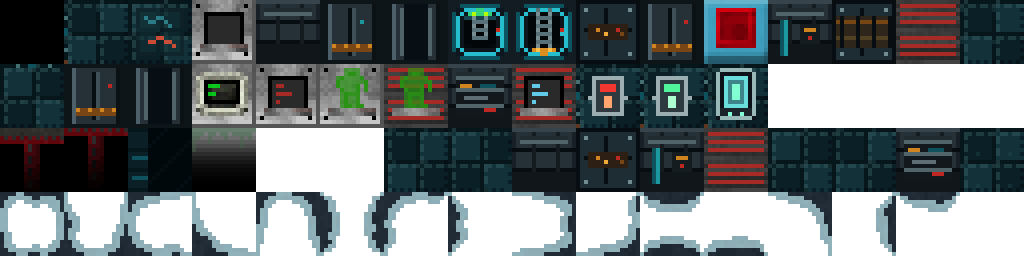
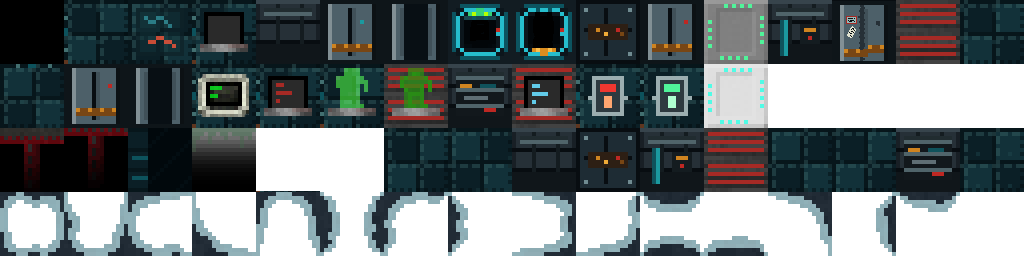
Refine security arena progression and item visuals

diff --git a/core/src/main/java/com/wafitz/pixelspacebase/levels/SecurityBossLevel.java b/core/src/main/java/com/wafitz/pixelspacebase/levels/SecurityBossLevel.java
@@ -59,7 +59,7 @@ import java.util.ArrayList;
 public class SecurityBossLevel extends Level {
 
     private static final int ALL_Y_MAZE_INTERLUDES_FOUND = 0x7;
-    private static final int TENGU_DAMAGE_CAP = 20;
+    private static final int BOSS_DAMAGE_CAP = 20;
     private static final int MIN_RANGED_USES = 3;
 
     {
@@ -78,13 +78,14 @@ public class SecurityBossLevel extends Level {
     private State state;
     private MaskedPrisoner maskedPrisoner;
     private int yMazeFound;
+    private boolean yBalanceApplied;
 
     //keep track of that need to be removed as the level is changed. We dump 'em back into the level at the end.
     private ArrayList<Item> storedItems = new ArrayList<>();
 
     @Override
     public String tilesTex() {
-        return Assets.TILES_SECURITY_BLOCK;
+        return state == State.FIGHT_ARENA ? Assets.TILES_SECURITY_ARENA : Assets.TILES_SECURITY_BLOCK;
     }
 
     @Override
@@ -95,6 +96,7 @@ public class SecurityBossLevel extends Level {
     private static final String STATE = "state";
     private static final String MASKED_PRISONER = "masked_prisoner";
     private static final String Y_MAZE_FOUND = "yMazeFound";
+    private static final String Y_BALANCE_APPLIED = "yBalanceApplied";
     private static final String STORED_ITEMS = "storeditems";
 
     @Override
@@ -103,6 +105,7 @@ public class SecurityBossLevel extends Level {
         bundle.put(STATE, state);
         bundle.put(MASKED_PRISONER, maskedPrisoner);
         bundle.put(Y_MAZE_FOUND, yMazeFound);
+        bundle.put(Y_BALANCE_APPLIED, yBalanceApplied);
         bundle.put(STORED_ITEMS, storedItems);
     }
 
@@ -111,6 +114,7 @@ public class SecurityBossLevel extends Level {
         super.restoreFromBundle(bundle);
         state = bundle.getEnum(STATE, State.class);
         yMazeFound = bundle.getInt(Y_MAZE_FOUND);
+        yBalanceApplied = bundle.getBoolean(Y_BALANCE_APPLIED);
 
         //in some states the masked prisoner won't be in the world, in others he will be.
         if (state == State.START || state == State.MAZE) {
@@ -128,7 +132,7 @@ public class SecurityBossLevel extends Level {
             storedItems.add((Item) item);
         }
 
-        updateArenaPlanetVisuals(state == State.FIGHT_ARENA);
+        removeLegacyArenaOverlays();
     }
 
     @Override
@@ -250,7 +254,7 @@ public class SecurityBossLevel extends Level {
         this.map = map.clone();
         buildFlagMaps();
         cleanWalls();
-        updateArenaPlanetVisuals(map == MAP_ARENA);
+        removeLegacyArenaOverlays();
 
         exit = entrance = 0;
         for (int i = 0; i < length(); i++)
@@ -274,7 +278,7 @@ public class SecurityBossLevel extends Level {
         SpacebaseRun.observe();
     }
 
-    private void updateArenaPlanetVisuals(boolean arenaActive) {
+    private void removeLegacyArenaOverlays() {
         ArrayList<CustomTileVisual> toRemove = new ArrayList<>();
         for (CustomTileVisual visual : customTiles) {
             if (visual instanceof AlienPlanetSurface) {
@@ -282,21 +286,6 @@ public class SecurityBossLevel extends Level {
             }
         }
         customTiles.removeAll(toRemove);
-
-        if (!arenaActive) {
-            return;
-        }
-
-        for (int i = 0; i < map.length; i++) {
-            if (map[i] == Terrain.EMPTY) {
-                AlienPlanetSurface surface = new AlienPlanetSurface();
-                int x = i % width();
-                int y = i / width();
-                surface.pos(x, y);
-                surface.variant(Math.abs((x * 31 + y * 17) % 8));
-                customTiles.add(surface);
-            }
-        }
     }
 
     private void clearEntities(Room safeArea) {
@@ -366,14 +355,14 @@ public class SecurityBossLevel extends Level {
 
             //maze beaten, moving to the arena
             case MAZE:
-                balanceMaskedPrisonerArenaIfYFound();
-
                 SpacebaseRun.hero.interrupt();
                 SpacebaseRun.hero.pos += 9 + 3 * 32;
                 SpacebaseRun.hero.sprite.interruptMotion();
                 SpacebaseRun.hero.sprite.place(SpacebaseRun.hero.pos);
 
+                state = State.FIGHT_ARENA;
                 changeMap(MAP_ARENA);
+                GLog.n(Messages.get(this, "planet_arrival"));
                 clearEntities(null);
 
                 maskedPrisoner.state = maskedPrisoner.HUNTING;
@@ -383,7 +372,6 @@ public class SecurityBossLevel extends Level {
                 GameScene.add(maskedPrisoner);
                 maskedPrisoner.notice();
 
-                state = State.FIGHT_ARENA;
                 break;
 
             //arena ended, fight over.
@@ -403,6 +391,7 @@ public class SecurityBossLevel extends Level {
                 maskedPrisoner.pos = 5 + 28 * 32;
                 maskedPrisoner.sprite.place(5 + 28 * 32);
 
+                state = State.WON;
                 changeMap(MAP_END);
                 clearEntities(null);
 
@@ -412,22 +401,22 @@ public class SecurityBossLevel extends Level {
                 for (Item item : storedItems)
                     drop(item, randomSecurityCell());
 
-                state = State.WON;
                 break;
         }
     }
 
-    public void recordMazeYFound(int appearance) {
+    public int recordMazeYFound(int appearance) {
         if (appearance >= 1 && appearance <= 3) {
             yMazeFound |= 1 << (appearance - 1);
+            if (yMazeFound == ALL_Y_MAZE_INTERLUDES_FOUND && !yBalanceApplied) {
+                balanceMaskedPrisonerArena();
+                yBalanceApplied = true;
+            }
         }
+        return Math.max(1, Integer.bitCount(yMazeFound));
     }
 
-    private void balanceMaskedPrisonerArenaIfYFound() {
-        if ((yMazeFound & ALL_Y_MAZE_INTERLUDES_FOUND) != ALL_Y_MAZE_INTERLUDES_FOUND) {
-            return;
-        }
-
+    private void balanceMaskedPrisonerArena() {
         if (bestRangedUses() < MIN_RANGED_USES) {
             MissileBlaster blaster = new MissileBlaster();
             blaster.identify();
@@ -436,17 +425,21 @@ public class SecurityBossLevel extends Level {
             if (!blaster.collect(SpacebaseRun.hero.belongings.backpack)) {
                 SpacebaseRun.hero.belongings.backpack.items.add(blaster);
             }
-            GLog.p(Messages.get(YInterlude.class, "balance_gift", blaster.name()));
             return;
         }
 
-        Item strongest = strongestUnequippedOffensiveItem();
-        if (strongest != null && offensiveScore(strongest) > TENGU_DAMAGE_CAP) {
-            Item removed = strongest.detachAll(SpacebaseRun.hero.belongings.backpack);
-            if (removed != null) {
-                storedItems.add(removed);
+        KindOfWeapon equipped = SpacebaseRun.hero.belongings.weapon;
+        Item target = weaponToHold(equipped, SpacebaseRun.hero.belongings.backpack);
+        if (target != null && offensiveScore(target) > BOSS_DAMAGE_CAP) {
+            if (target == equipped) {
+                equipped.unequipForConfiscation(SpacebaseRun.hero);
+                storedItems.add(equipped);
+            } else {
+                Item removed = target.detachAll(SpacebaseRun.hero.belongings.backpack);
+                if (removed != null) {
+                    storedItems.add(removed);
+                }
             }
-            GLog.w(Messages.get(YInterlude.class, "balance_remove", strongest.name()));
         }
     }
 
@@ -465,11 +458,14 @@ public class SecurityBossLevel extends Level {
         return best;
     }
 
-    private Item strongestUnequippedOffensiveItem() {
+    Item weaponToHold(KindOfWeapon equipped, Iterable<Item> backpack) {
+        if (equipped != null) {
+            return equipped;
+        }
         Item strongest = null;
         int bestScore = 0;
 
-        for (Item item : SpacebaseRun.hero.belongings.backpack) {
+        for (Item item : backpack) {
             int score = offensiveScore(item);
             if (score > bestScore) {
                 bestScore = score;

diff --git a/core/src/main/java/com/wafitz/pixelspacebase/ui/LootIndicator.java b/core/src/main/java/com/wafitz/pixelspacebase/ui/LootIndicator.java
@@ -73,10 +73,12 @@ public class LootIndicator extends Tag {
                         heap.type == Heap.Type.CHEST || heap.type == Heap.Type.WORKSHOP_STORAGE || heap.type == Heap.Type.CONFUSEDSHAPESHIFTER ? ItemSlot.CHEST :
                                 heap.type == Heap.Type.LOCKED_CHEST || heap.type == Heap.Type.JAMMED_CHEST ? ItemSlot.LOCKED_CHEST :
                                         heap.type == Heap.Type.CRYSTAL_CHEST ? ItemSlot.CRYSTAL_CHEST :
-                                                heap.type == Heap.Type.WORKSHOP_UPGRADE || heap.type == Heap.Type.CMD_TERMINAL ? ItemSlot.CMD_TERMINAL :
-                                                        heap.type == Heap.Type.EMPTY_SPACESUIT ? ItemSlot.EMPTY_SPACESUIT :
-                                                                heap.type == Heap.Type.REMAINS ? ItemSlot.REMAINS :
-                                                                        heap.peek();
+                                                heap.type == Heap.Type.WORKSHOP_UPGRADE ? ItemSlot.UPGRADE_BENCH :
+                                                        heap.type == Heap.Type.MAKER_BENCH ? ItemSlot.BREAKDOWN_BENCH :
+                                                                heap.type == Heap.Type.CMD_TERMINAL ? ItemSlot.CMD_TERMINAL :
+                                                                        heap.type == Heap.Type.EMPTY_SPACESUIT ? ItemSlot.EMPTY_SPACESUIT :
+                                                                                heap.type == Heap.Type.REMAINS ? ItemSlot.REMAINS :
+                                                                                        heap.peek();
                 if (item != lastItem || item.quantity() != lastQuantity) {
                     lastItem = item;
                     lastQuantity = item.quantity();

diff --git a/core/src/main/java/com/wafitz/pixelspacebase/SpacebaseTilemap.java b/core/src/main/java/com/wafitz/pixelspacebase/SpacebaseTilemap.java
@@ -27,6 +27,7 @@ import com.wafitz.pixelspacebase.levels.Terrain;
 import com.watabou.noosa.Image;
 import com.watabou.noosa.TextureFilm;
 import com.watabou.noosa.Tilemap;
+import com.watabou.gltextures.TextureCache;
 import com.watabou.noosa.tweeners.AlphaTweener;
 import com.watabou.utils.PathFinder;
 import com.watabou.utils.Point;
@@ -153,11 +154,13 @@ public class SpacebaseTilemap extends Tilemap {
 
     private int[] map;
     private float[] tileVariance;
+    private String tilesTexturePath;
 
     public SpacebaseTilemap() {
         super(
                 SpacebaseRun.level.tilesTex(),
                 new TextureFilm(SpacebaseRun.level.tilesTex(), SIZE, SIZE));
+        tilesTexturePath = SpacebaseRun.level.tilesTex();
 
         Random.seed(SpacebaseRun.seedCurDepth());
         tileVariance = new float[SpacebaseRun.level.map.length];
@@ -168,6 +171,14 @@ public class SpacebaseTilemap extends Tilemap {
         map(SpacebaseRun.level.map, SpacebaseRun.level.width());
 
         instance = this;
+    }
+
+    public void useTileset(String path) {
+        if (!path.equals(tilesTexturePath)) {
+            texture = TextureCache.get(path);
+            tileset = new TextureFilm(path, SIZE, SIZE);
+            tilesTexturePath = path;
+        }
     }
 
     @Override

diff --git a/core/src/test/java/com/wafitz/pixelspacebase/items/WorkshopBenchSpriteTest.java b/core/src/test/java/com/wafitz/pixelspacebase/items/WorkshopBenchSpriteTest.java
@@ -1,0 +1,27 @@
+package com.wafitz.pixelspacebase.items;
+
+import com.wafitz.pixelspacebase.sprites.ItemSpriteSheet;
+import org.junit.Test;
+
+import static org.junit.Assert.assertEquals;
+import static org.junit.Assert.assertNotEquals;
+
+public class WorkshopBenchSpriteTest {
+
+    @Test
+    public void workshopBenchesUseDistinctImages() {
+        Heap upgrade = new Heap();
+        upgrade.type = Heap.Type.WORKSHOP_UPGRADE;
+        Heap breakdown = new Heap();
+        breakdown.type = Heap.Type.MAKER_BENCH;
+        Heap terminal = new Heap();
+        terminal.type = Heap.Type.CMD_TERMINAL;
+
+        assertEquals(ItemSpriteSheet.UPGRADE_BENCH, upgrade.image());
+        assertEquals(ItemSpriteSheet.BREAKDOWN_BENCH, breakdown.image());
+        assertEquals(ItemSpriteSheet.REDTERMINAL, terminal.image());
+        assertNotEquals(upgrade.image(), breakdown.image());
+        assertNotEquals(upgrade.image(), terminal.image());
+        assertNotEquals(breakdown.image(), terminal.image());
+    }
+}

diff --git a/core/src/main/java/com/wafitz/pixelspacebase/items/Heap.java b/core/src/main/java/com/wafitz/pixelspacebase/items/Heap.java
@@ -117,7 +117,9 @@ public class Heap implements Bundlable {
             case CRYSTAL_CHEST:
                 return ItemSpriteSheet.CRYSTAL_CHEST;
             case WORKSHOP_UPGRADE:
+                return ItemSpriteSheet.UPGRADE_BENCH;
             case MAKER_BENCH:
+                return ItemSpriteSheet.BREAKDOWN_BENCH;
             case CMD_TERMINAL:
                 return ItemSpriteSheet.REDTERMINAL;
             case EMPTY_SPACESUIT:
@@ -147,7 +149,7 @@ public class Heap implements Bundlable {
                 return;
             case WORKSHOP_UPGRADE:
                 GameScene.show(new WndLeonard(
-                        new ItemSprite(ItemSpriteSheet.REDTERMINAL, null),
+                        new ItemSprite(ItemSpriteSheet.UPGRADE_BENCH, null),
                         Messages.titleCase(Messages.get(this, "workshop_upgrade")),
                         hero,
                         false));

diff --git a/core/src/main/java/com/wafitz/pixelspacebase/actors/mobs/npcs/YInterlude.java b/core/src/main/java/com/wafitz/pixelspacebase/actors/mobs/npcs/YInterlude.java
@@ -103,10 +103,11 @@ public class YInterlude extends NPC {
     public boolean interact() {
         if (mazeAppearance > 0) {
             sprite.turnTo(pos, SpacebaseRun.hero.pos);
+            int meeting = mazeAppearance;
             if (SpacebaseRun.level instanceof SecurityBossLevel) {
-                ((SecurityBossLevel) SpacebaseRun.level).recordMazeYFound(mazeAppearance);
+                meeting = ((SecurityBossLevel) SpacebaseRun.level).recordMazeYFound(mazeAppearance);
             }
-            GameScene.show(new WndQuest(this, Messages.get(this, "maze_" + mazeAppearance)));
+            GameScene.show(new WndQuest(this, Messages.get(this, "maze_" + meeting)));
             destroy();
             sprite.emitter().burst(Speck.factory(Speck.WOOL), 15);
             sprite.killAndErase();

diff --git a/core/src/main/java/com/wafitz/pixelspacebase/items/KindOfWeapon.java b/core/src/main/java/com/wafitz/pixelspacebase/items/KindOfWeapon.java
@@ -20,6 +20,7 @@
  */
 package com.wafitz.pixelspacebase.items;
 
+import com.wafitz.pixelspacebase.SpacebaseRun;
 import com.wafitz.pixelspacebase.actors.Char;
 import com.wafitz.pixelspacebase.actors.hero.Hero;
 import com.wafitz.pixelspacebase.actors.hero.HeroClass;
@@ -84,6 +85,15 @@ abstract public class KindOfWeapon extends EquipableItem {
 
             return false;
 
+        }
+    }
+
+    public void unequipForConfiscation(Hero hero) {
+        if (hero.belongings.weapon == this) {
+            onDetach();
+            SpacebaseRun.quickslot.clearItem(this);
+            hero.belongings.weapon = null;
+            updateQuickslot();
         }
     }
 

diff --git a/core/src/main/java/com/wafitz/pixelspacebase/ui/ItemSlot.java b/core/src/main/java/com/wafitz/pixelspacebase/ui/ItemSlot.java
@@ -84,6 +84,16 @@ public class ItemSlot extends Button {
             return ItemSpriteSheet.REDTERMINAL;
         }
     };
+    static final Item UPGRADE_BENCH = new Item() {
+        public int image() {
+            return ItemSpriteSheet.UPGRADE_BENCH;
+        }
+    };
+    static final Item BREAKDOWN_BENCH = new Item() {
+        public int image() {
+            return ItemSpriteSheet.BREAKDOWN_BENCH;
+        }
+    };
     static final Item EMPTY_SPACESUIT = new Item() {
         public int image() {
             return ItemSpriteSheet.DISCARDEDSUIT;

diff --git a/core/src/main/java/com/wafitz/pixelspacebase/Assets.java b/core/src/main/java/com/wafitz/pixelspacebase/Assets.java
@@ -122,6 +122,7 @@ public class Assets {
     public static final String SECURITY_EXIT = "custom_tiles/security_exit.png";
     public static final String HOLODECK_RETAINER_TILES = "custom_tiles/holodeck_halls.png";
     public static final String ALIEN_PLANET_TILES = "custom_tiles/alien_planet_tiles.png";
+    public static final String TILES_SECURITY_ARENA = "tiles_security_arena.png";
 
     public static final String BUFFS_SMALL = "buffs.png";
     public static final String BUFFS_LARGE = "large_buffs.png";

diff --git a/core/src/main/java/com/wafitz/pixelspacebase/items/equippablemodules/HoloPad.java b/core/src/main/java/com/wafitz/pixelspacebase/items/equippablemodules/HoloPad.java
@@ -507,7 +507,7 @@ public class HoloPad extends EquippableModule {
                 }, {
                 "If only he would see reason, he doesn't seem insane...",
                 "He assumes we are hostile, if only he would stop to talk...",
-                "The one prisoner left sane is a deadly assassin. Of course..."
+                        "The one cryo pod still occupied has been sealed for a century. Of course..."
         }
         }, {
                 {

diff --git a/core/src/main/java/com/wafitz/pixelspacebase/sprites/ItemSpriteSheet.java b/core/src/main/java/com/wafitz/pixelspacebase/sprites/ItemSpriteSheet.java
@@ -54,6 +54,8 @@ public class ItemSpriteSheet {
     public static final int LOCKED_CHEST = CONTAINERS + 5;
     public static final int CRYSTAL_CHEST = CONTAINERS + 6;
     public static final int PET_CARRIER = CONTAINERS + 7;
+    public static final int UPGRADE_BENCH = CONTAINERS + 8;
+    public static final int BREAKDOWN_BENCH = CONTAINERS + 9;
 
     private static final int SINGLE_USE = xy(1, 3);   //32 slots
     public static final int CLONE = SINGLE_USE;

diff --git a/core/src/main/java/com/wafitz/pixelspacebase/scenes/GameScene.java b/core/src/main/java/com/wafitz/pixelspacebase/scenes/GameScene.java
@@ -725,6 +725,7 @@ public class GameScene extends PixelScene {
 
     public static void resetMap() {
         if (scene != null) {
+            scene.tiles.useTileset(SpacebaseRun.level.tilesTex());
             scene.tiles.map(SpacebaseRun.level.map, SpacebaseRun.level.width());
             scene.terrainFeatures.map(SpacebaseRun.level.map, SpacebaseRun.level.width());
         }
